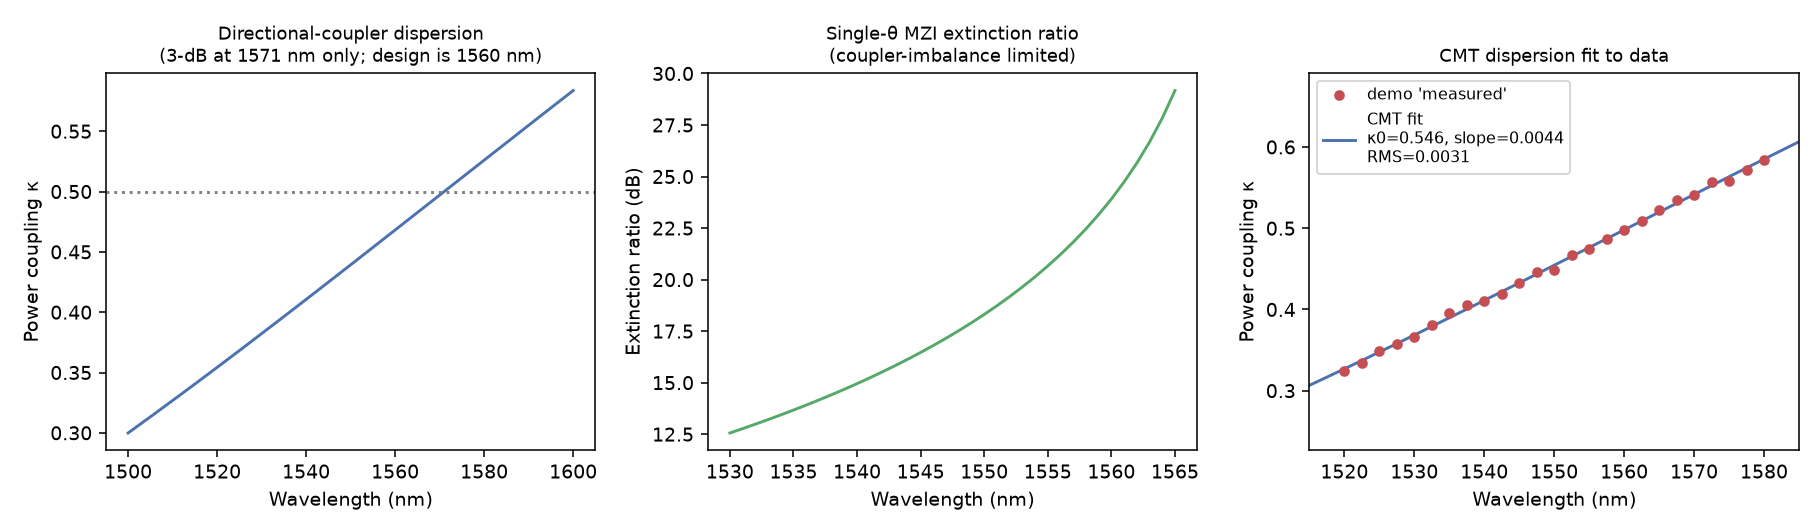
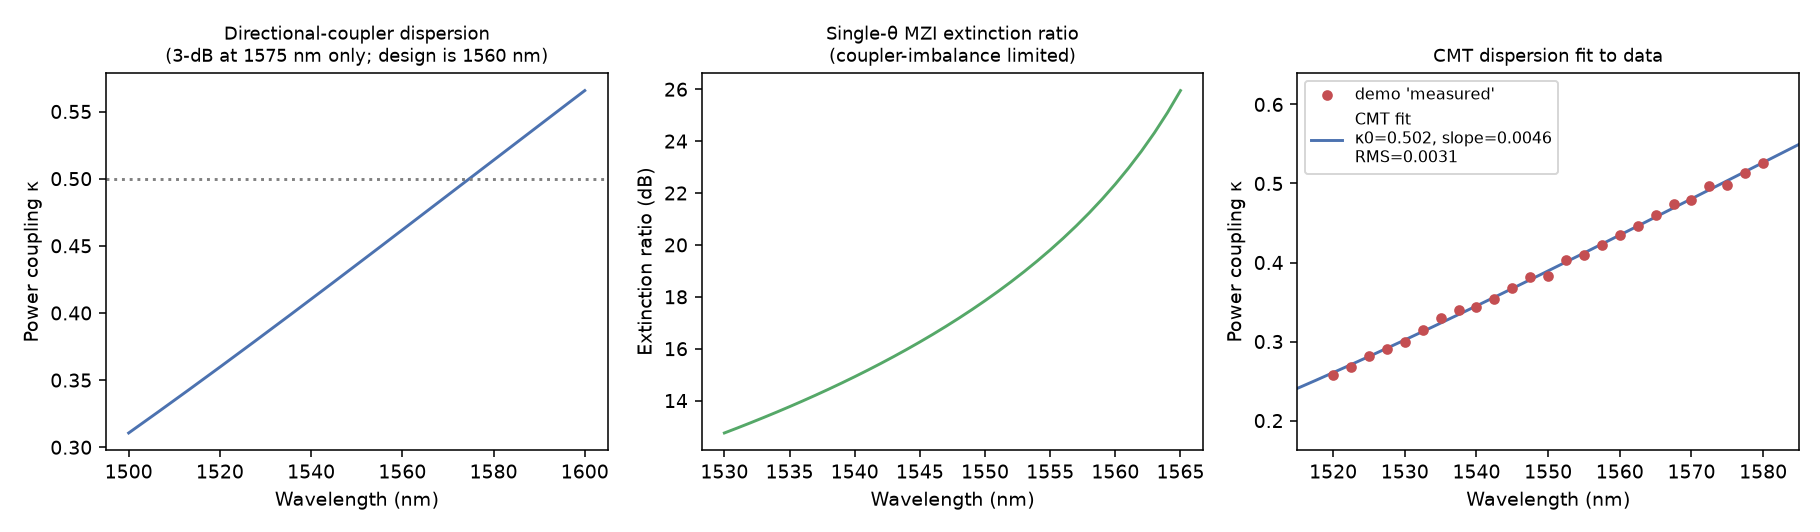
Fit the mesh T20 model to Fig 4d and split worst case by fit range

diff --git a/scripts/fit_fig4.py b/scripts/fit_fig4.py
@@ -20,18 +20,41 @@ import matplotlib
 matplotlib.use("Agg")
 import matplotlib.pyplot as plt
 
+from lightin import switching
+
 HERE = os.path.dirname(__file__)
 CSV = os.path.join(HERE, "..", "data", "fig4d_T20_digitized.csv")
 FIG = os.path.join(HERE, "..", "figures", "fig4_digitized.png")
 
 FIT_RANGE_NM = [1549, 1587]     # wavelength span of the digitized points
-P0 = (1568.0, 0.0045, -25.0)    # lambda0 (nm), slope (rad/nm), floor (dB)
+P0 = (1568.0, 0.0045, -25.0)      # proxy: lambda0 (nm), slope (rad/nm), floor (dB)
+MESH_P0 = (1571.0, 0.0029, -25.0)  # mesh: same three parameters
 
 
 def crosstalk_model(lam, lam0, slope, floor_db):
     a0 = np.arcsin(np.sqrt(0.5))
     k = np.sin(a0 + slope * (lam - lam0)) ** 2
     return 10 * np.log10((1 - 2 * k) ** 2 + 10 ** (floor_db / 10))
+
+
+def mesh_t20_model(lam, lam0, slope, floor_db):
+    """T20 crosstalk of the full 4x4 mesh, normalised to the total output power.
+
+    crosstalk_model above is a single-coupler proxy: its lambda0 is a parameter of that
+    formula, not of the mesh. The mesh routes input 0 through four stages, so its T20
+    null is displaced from the couplers' own 3-dB point. This model evaluates the mesh
+    that lightin/switching.py actually uses, so the fitted lambda0 and slope are the
+    couplers' parameters and the comparison with the data is like for like.
+
+    Normalising by the total output power removes the insertion loss, which the
+    digitized figure does not carry. floor_db is the phenomenological crosstalk floor
+    the measured curve shows and the mesh model has no term for.
+    """
+    lam = np.atleast_1d(np.asarray(lam, float))
+    Tdb, _ = switching.transmission_spectra("cross", lam, lam0=lam0, slope=slope)
+    T = 10.0 ** (Tdb / 10.0)
+    ratio = T[2, 0] / T[:, 0].sum(axis=0)
+    return 10 * np.log10(ratio + 10 ** (floor_db / 10.0))
 
 
 def load_points(path=CSV):
@@ -50,6 +73,17 @@ def fit(lam, db, p0=P0):
     """Least-squares fit of crosstalk_model; raises RuntimeError if it does not converge."""
     popt, _ = curve_fit(crosstalk_model, lam, db, p0=list(p0), maxfev=40000)
     return popt
+
+
+def fit_mesh(lam, db, p0=MESH_P0):
+    """Least-squares fit of mesh_t20_model; returns (popt, standard errors)."""
+    popt, pcov = curve_fit(mesh_t20_model, lam, db, p0=list(p0), maxfev=40000)
+    return popt, np.sqrt(np.diag(pcov))
+
+
+def rms_db(model, lam, db, *params):
+    """Root-mean-square difference in dB between a model and the digitized points."""
+    return float(np.sqrt(np.mean((db - model(lam, *params)) ** 2)))
 
 
 def bootstrap(lam, db, n_boot=500, seed=0):
@@ -91,8 +125,11 @@ def main(verbose=True, n_boot=500, seed=0):
     lam, db = load_points()
     popt = fit(lam, db)
     lam0, slope, floor = popt
-    rms = float(np.sqrt(np.mean((db - crosstalk_model(lam, *popt)) ** 2)))
+    rms = rms_db(crosstalk_model, lam, db, *popt)
     boot = bootstrap(lam, db, n_boot=n_boot, seed=seed)
+
+    mopt, mse = fit_mesh(lam, db)
+    mrms = rms_db(mesh_t20_model, lam, db, *mopt)
 
     if verbose:
         print("Fit to digitized Fig 4d T20 crosstalk:")
@@ -109,14 +146,23 @@ def main(verbose=True, n_boot=500, seed=0):
               f"[5%, 95%] = [{boot['lambda0_p05_nm']:.1f}, {boot['lambda0_p95_nm']:.1f}] nm")
         print(f"    slope   median = {boot['slope_median']:.4f} rad/nm  "
               f"[5%, 95%] = [{boot['slope_p05']:.4f}, {boot['slope_p95']:.4f}] rad/nm")
+        print("Fit of the 4x4 mesh T20 model (normalised to total output) to the same points:")
+        print(f"  coupler 3-dB wavelength lambda0 = {mopt[0]:.1f} +/- {mse[0]:.1f} nm")
+        print(f"  dispersion slope                = {mopt[1]:.4f} +/- {mse[1]:.4f} rad/nm")
+        print(f"  crosstalk floor                 = {mopt[2]:.1f} +/- {mse[2]:.1f} dB")
+        print(f"  fit RMS                         = {mrms:.2f} dB "
+              f"(single-coupler proxy: {rms:.2f} dB)")
 
     lf = np.linspace(lam.min(), lam.max(), 400)
     fig, ax = plt.subplots(figsize=(7, 4.4))
     ax.scatter(lam, db, s=26, color="#C44E52", zorder=3,
                label="digitized Fig 4d $T_{20}$ (±2 dB)")
-    ax.plot(lf, crosstalk_model(lf, *popt), color="#4C72B0", lw=2,
-            label=(f"CMT coupler fit\n$\\lambda_0$={lam0:.1f} nm, "
+    ax.plot(lf, crosstalk_model(lf, *popt), color="#4C72B0", lw=2, ls="--",
+            label=(f"single-coupler proxy\n$\\lambda_0$={lam0:.1f} nm, "
                    f"slope={slope:.4f} rad/nm\nRMS={rms:.2f} dB"))
+    ax.plot(lf, mesh_t20_model(lf, *mopt), color="#55A868", lw=2,
+            label=(f"4x4 mesh $T_{{20}}$ fit\n$\\lambda_0$={mopt[0]:.1f} nm, "
+                   f"slope={mopt[1]:.4f} rad/nm\nRMS={mrms:.2f} dB"))
     ax.axvspan(boot["lambda0_p05_nm"], boot["lambda0_p95_nm"], color="#4C72B0",
                alpha=0.12, zorder=0,
                label=(f"$\\lambda_0$ bootstrap 5–95%\n"
@@ -132,8 +178,17 @@ def main(verbose=True, n_boot=500, seed=0):
         print(f"  wrote {os.path.abspath(FIG)}")
 
     out = dict(boot)
-    out.update({"lambda0_nm": float(lam0), "slope_rad_nm": float(slope),
+    out.update({"model": "single-coupler proxy",
+                "lambda0_nm": float(lam0), "slope_rad_nm": float(slope),
                 "floor_db": float(floor), "rms_db": rms})
+    out["mesh"] = {
+        "model": "4x4 mesh T20 normalised to total output",
+        "lambda0_nm": float(mopt[0]), "slope": float(mopt[1]),
+        "floor_db": float(mopt[2]),
+        "lambda0_se_nm": float(mse[0]), "slope_se": float(mse[1]),
+        "floor_se_db": float(mse[2]),
+        "rms_db": mrms, "n_points": int(lam.size),
+    }
     return out
 
 

diff --git a/lightin/switching.py b/lightin/switching.py
@@ -13,7 +13,13 @@ which depend on this chip's couplers.
 """
 
 import numpy as np
-from .coupler import mzi_single_theta, link_budget_db, LAMBDA0
+from .coupler import (mzi_single_theta, link_budget_db, LAMBDA0,
+                      DC_LAMBDA_3DB, DC_SLOPE)
+
+FIG4D_FLOOR_DB = -26.2   # dB, crosstalk floor fitted to digitized Fig 4d alongside
+# lam0 and slope. It is phenomenological: the mesh model has no term that produces
+# it, so it is recorded here and deliberately not added to any crosstalk this
+# module reports, which would state a floor the model does not predict.
 
 THETA_CROSS = 0.0     # DC.DC = full cross at the 3-dB wavelength
 THETA_BAR = np.pi     # bar at the 3-dB wavelength
@@ -31,8 +37,15 @@ def _embed(T2, m, n, N):
     return U
 
 
-def fabric_matrix(state, lam, N=4, kappa0s=None, prop_db_per_stage=0.25):
-    """NxN field transfer for an all-'cross'/'bar' config using dispersive couplers."""
+def fabric_matrix(state, lam, N=4, kappa0s=None, prop_db_per_stage=0.25,
+                  lam0=None, slope=None):
+    """NxN field transfer for an all-'cross'/'bar' config using dispersive couplers.
+
+    lam0 and slope select the directional-coupler dispersion; None takes the fitted
+    chip values DC_LAMBDA_3DB and DC_SLOPE.
+    """
+    lam0 = DC_LAMBDA_3DB if lam0 is None else lam0
+    slope = DC_SLOPE if slope is None else slope
     n_mzi = N * (N - 1) // 2
     if kappa0s is None:
         kappa0s = np.full(n_mzi, 0.5)
@@ -43,15 +56,23 @@ def fabric_matrix(state, lam, N=4, kappa0s=None, prop_db_per_stage=0.25):
     for layer in range(N):
         L = np.eye(N, dtype=complex)
         for (m, n) in _layer_pairs(N, layer):
-            M = mzi_single_theta(theta, lam, kappa0=kappa0s[k], slope=0.0029,
-                                 excess_loss_db=0.1)
+            M = mzi_single_theta(theta, lam, kappa0=kappa0s[k], slope=slope,
+                                 excess_loss_db=0.1, lam0=lam0)
             L = _embed(M, m, n, N) @ L
             k += 1
         U = (amp * L) @ U
     return U
 
 
-def transmission_spectra(state, lambdas, N=4, seed=0):
+def transmission_spectra(state, lambdas, N=4, seed=0, lam0=None, slope=None):
+    """Per-port power transfer (dB) vs wavelength, with fabricated coupler spread.
+
+    lam0 and slope select the directional-coupler dispersion; None takes the fitted
+    chip values DC_LAMBDA_3DB and DC_SLOPE. Passing them explicitly lets the mesh
+    itself be fitted to measured spectra (scripts/fit_fig4.mesh_t20_model).
+    """
+    lam0 = DC_LAMBDA_3DB if lam0 is None else lam0
+    slope = DC_SLOPE if slope is None else slope
     rng = np.random.default_rng(seed)
     n_mzi = N * (N - 1) // 2
     kappa_a = np.clip(rng.normal(0.5, 0.02, size=n_mzi), 0.3, 0.7)   # two independently
@@ -66,9 +87,9 @@ def transmission_spectra(state, lambdas, N=4, seed=0):
         for layer in range(N):
             L = np.eye(N, dtype=complex)
             for (m, n) in _layer_pairs(N, layer):
-                M = mzi_single_theta(theta, lam, kappa0=kappa_a[k], slope=0.0029,
+                M = mzi_single_theta(theta, lam, kappa0=kappa_a[k], slope=slope,
                                      excess_loss_db=0.1, kappa0_b=kappa_b[k],
-                                     arm_phase_err=arm_err[k])
+                                     arm_phase_err=arm_err[k], lam0=lam0)
                 L = _embed(M, m, n, N) @ L
                 k += 1
             U = (amp * L) @ U
@@ -114,6 +135,15 @@ def crosstalk_summary(lambdas=None, N=4):
             "structural_zeros": structural_zeros,
         }
     return out
+
+
+def worst_cross_xtalk_db(lambdas):
+    """Worst (highest) cross-state crosstalk over a wavelength grid, in dB.
+
+    Same definition as worst_xtalk_over_cband_db: the maximum over every unintended
+    output port and every wavelength, with structural zeros excluded.
+    """
+    return crosstalk_summary(lambdas=np.asarray(lambdas, float))["cross"]["worst_xtalk_over_cband_db"]
 
 
 def insertion_loss_budget(**kw):

diff --git a/lightin/coupler.py b/lightin/coupler.py
@@ -24,7 +24,8 @@ import numpy as np
 
 # --- Device constants from the LightIN paper (Methods) + supplementary ---
 LAMBDA0 = 1560.0       # nm, matrix-multiplication design wavelength (Methods)
-DC_LAMBDA_3DB = 1571.0  # nm, 3-dB point fitted to digitized Fig 4d (scripts/fit_fig4.py); design wavelength is 1560 nm
+DC_LAMBDA_3DB = 1574.7  # nm, 3-dB point from fitting the mesh T20 model to digitized Fig 4d (scripts/fit_fig4.py); design wavelength is 1560 nm
+DC_SLOPE = 0.0026      # rad/nm, coupling-phase dispersion slope of the same fit
 LAMBDA_MRM = 1555.0    # nm, MRM wavelength-locking experiment (Methods)
 N_GROUP = 4.0          # group index, stated in paper ("group index of 4")
 N_EFF = 2.36           # phase index, 450x220 nm SOI strip TE @1560 nm (geometry-derived)
@@ -44,7 +45,7 @@ DEMO_TRUE_SLOPE = 0.0042    # rad/nm, linear coupling-phase dispersion
 DEMO_TRUE_QUAD = -8e-6      # rad/nm^2, higher-order term the CMT fit form cannot represent
 
 
-def dc_power_coupling(lam, kappa0=0.5, slope=0.0029, lam0=DC_LAMBDA_3DB):
+def dc_power_coupling(lam, kappa0=0.5, slope=DC_SLOPE, lam0=DC_LAMBDA_3DB):
     """Power cross-coupling ratio of a directional coupler, 50:50 at lam0.
 
     K(lambda) = sin^2( arcsin(sqrt(kappa0)) + slope*(lambda - lam0) ).
@@ -55,16 +56,17 @@ def dc_power_coupling(lam, kappa0=0.5, slope=0.0029, lam0=DC_LAMBDA_3DB):
     return np.sin(a0 + slope * (np.asarray(lam, float) - lam0)) ** 2
 
 
-def dc_field_matrix(lam, kappa0=0.5, slope=0.0029, excess_loss_db=0.1):
+def dc_field_matrix(lam, kappa0=0.5, slope=DC_SLOPE, excess_loss_db=0.1,
+                    lam0=DC_LAMBDA_3DB):
     """2x2 field transfer of a (slightly lossy) directional coupler."""
-    k = dc_power_coupling(lam, kappa0, slope)
+    k = dc_power_coupling(lam, kappa0, slope, lam0)
     t, c = np.sqrt(1 - k), np.sqrt(k)
     amp = 10 ** (-excess_loss_db / 20.0)
     return amp * np.array([[t, 1j * c], [1j * c, t]], dtype=complex)
 
 
-def mzi_single_theta(theta, lam, kappa0=0.5, slope=0.0029, excess_loss_db=0.1,
-                     kappa0_b=None, arm_phase_err=0.0):
+def mzi_single_theta(theta, lam, kappa0=0.5, slope=DC_SLOPE, excess_loss_db=0.1,
+                     kappa0_b=None, arm_phase_err=0.0, lam0=DC_LAMBDA_3DB):
     """Single-internal-phase PUC built from two (dispersive) directional couplers.
 
     M = DC_b(lambda) . diag(e^{i(theta+arm_phase_err)}, 1) . DC_a(lambda).
@@ -76,13 +78,13 @@ def mzi_single_theta(theta, lam, kappa0=0.5, slope=0.0029, excess_loss_db=0.1,
     """
     if kappa0_b is None:
         kappa0_b = kappa0
-    DCa = dc_field_matrix(lam, kappa0, slope, excess_loss_db)
-    DCb = dc_field_matrix(lam, kappa0_b, slope, excess_loss_db)
+    DCa = dc_field_matrix(lam, kappa0, slope, excess_loss_db, lam0)
+    DCb = dc_field_matrix(lam, kappa0_b, slope, excess_loss_db, lam0)
     P = np.diag([np.exp(1j * (theta + arm_phase_err)), 1.0])
     return DCb @ P @ DCa
 
 
-def extinction_ratio_db(lam, kappa0=0.5, slope=0.0029, n=512):
+def extinction_ratio_db(lam, kappa0=0.5, slope=DC_SLOPE, n=512, lam0=DC_LAMBDA_3DB):
     """Max/min through-port transmission over theta -> achievable extinction (dB).
 
     Returns None when the minimum transmission is an ideal null (below 1e-15). The
@@ -91,7 +93,8 @@ def extinction_ratio_db(lam, kappa0=0.5, slope=0.0029, n=512):
     model does not actually predict.
     """
     thetas = np.linspace(0, 2 * np.pi, n)
-    p = np.array([np.abs(mzi_single_theta(th, lam, kappa0, slope, 0.0)[0, 0]) ** 2
+    p = np.array([np.abs(mzi_single_theta(th, lam, kappa0, slope, 0.0,
+                                          lam0=lam0)[0, 0]) ** 2
                   for th in thetas])
     if p.min() < 1e-15:
         return None

diff --git a/scripts/run_all.py b/scripts/run_all.py
@@ -24,9 +24,13 @@ if hasattr(sys.stdout, "reconfigure"):
     sys.stdout.reconfigure(encoding="utf-8", errors="replace")
 
 FIGDIR = os.path.join(os.path.dirname(__file__), "..", "figures")
-FIG4D_KEYS = ("lambda0_median_nm", "lambda0_p05_nm", "lambda0_p95_nm",
+FIG4D_KEYS = ("model", "lambda0_median_nm", "lambda0_p05_nm", "lambda0_p95_nm",
               "slope_median", "slope_p05", "slope_p95",
-              "n_boot", "n_failed", "fit_range_nm")
+              "n_boot", "n_failed", "fit_range_nm", "rms_db")
+XTALK_FIT_RANGE_NM = [1549, 1565]           # inside the digitized Fig 4d wavelengths
+XTALK_EXTRAP_RANGE_NM = [1530, 1549]        # below the data; model only
+FLOOR_NOTE = ("phenomenological floor fitted to Fig 4d; the mesh model has no floor "
+              "term, so modelled crosstalk below this level is not reached on the chip")
 os.makedirs(FIGDIR, exist_ok=True)
 
 
@@ -269,7 +273,9 @@ def main():
     print("\n--- 10. Recirculating mesh with feedback loops ---")
     rc = recirculating.run()
     print("\n--- 11. Fig 4d coupler dispersion fit (bootstrapped) ---")
-    f4 = {k: v for k, v in fit_fig4.main().items() if k in FIG4D_KEYS}
+    f4_all = fit_fig4.main()
+    f4 = {k: v for k, v in f4_all.items() if k in FIG4D_KEYS}
+    f4_mesh = f4_all["mesh"]
 
     print("\n--- Generating figures ---")
     fig_unitary(u); fig_nonunitary(nu); fig_iris(ir); fig_ppuf(pp)
@@ -303,6 +309,14 @@ def main():
             "bar_worst_xtalk_cband_db": sw["bar"]["worst_xtalk_over_cband_db"],
             "cross_structural_zeros": sw["cross"]["structural_zeros"],
             "bar_structural_zeros": sw["bar"]["structural_zeros"],
+            "cross_worst_xtalk_fitrange_db": switching.worst_cross_xtalk_db(
+                np.linspace(1549, 1565, 65)),
+            "cross_worst_xtalk_extrapolated_db": switching.worst_cross_xtalk_db(
+                np.linspace(1530, 1549, 77)),
+            "fit_range_nm": XTALK_FIT_RANGE_NM,
+            "extrapolated_range_nm": XTALK_EXTRAP_RANGE_NM,
+            "chip_crosstalk_floor_db": switching.FIG4D_FLOOR_DB,
+            "floor_note": FLOOR_NOTE,
             "fibre_to_fibre_loss_db": switching.insertion_loss_budget(),
         },
         "ppuf": {"uniqueness": pp["uniqueness"], "uniformity": pp["uniformity"],
@@ -330,6 +344,7 @@ def main():
             "coupler_ceiling_min_fidelity": float(ex["coupler_ceiling_fidelity"].min()),
         },
         "fig4d_fit": f4,
+        "fig4d_mesh_fit": f4_mesh,
         "recirculating": rc,
         "latency_on_chip_ps": propagation_latency(4.5e-3) * 1e12,
     }

diff --git a/tests/test_reproduction.py b/tests/test_reproduction.py
@@ -179,6 +179,25 @@ def test_fig4d_digitized_fit():
     assert res["rms_db"] < 2.0                        # fit within digitization uncertainty
 
 
+def test_mesh_model_matches_fig4d():
+    """The mesh T20 model at the shipped constants must track the digitized Fig 4d curve.
+
+    DC_LAMBDA_3DB, DC_SLOPE and FIG4D_FLOOR_DB are the mesh fit rounded for the source,
+    so this checks both the fit and the rounding. 2.0 dB is the digitization uncertainty
+    the CSV header states; a larger RMS would mean the shipped coupler no longer
+    describes the curve it was fitted to.
+    """
+    import os, sys
+    sys.path.insert(0, os.path.join(os.path.dirname(__file__), "..", "scripts"))
+    import fit_fig4
+    from lightin import coupler, switching
+    lam, db = fit_fig4.load_points()
+    rms = fit_fig4.rms_db(fit_fig4.mesh_t20_model, lam, db,
+                          coupler.DC_LAMBDA_3DB, coupler.DC_SLOPE,
+                          switching.FIG4D_FLOOR_DB)
+    assert rms <= 2.0
+
+
 def test_energy_paper_derivation():
     from lightin import throughput
     te = throughput.reproduce(verbose=False)
